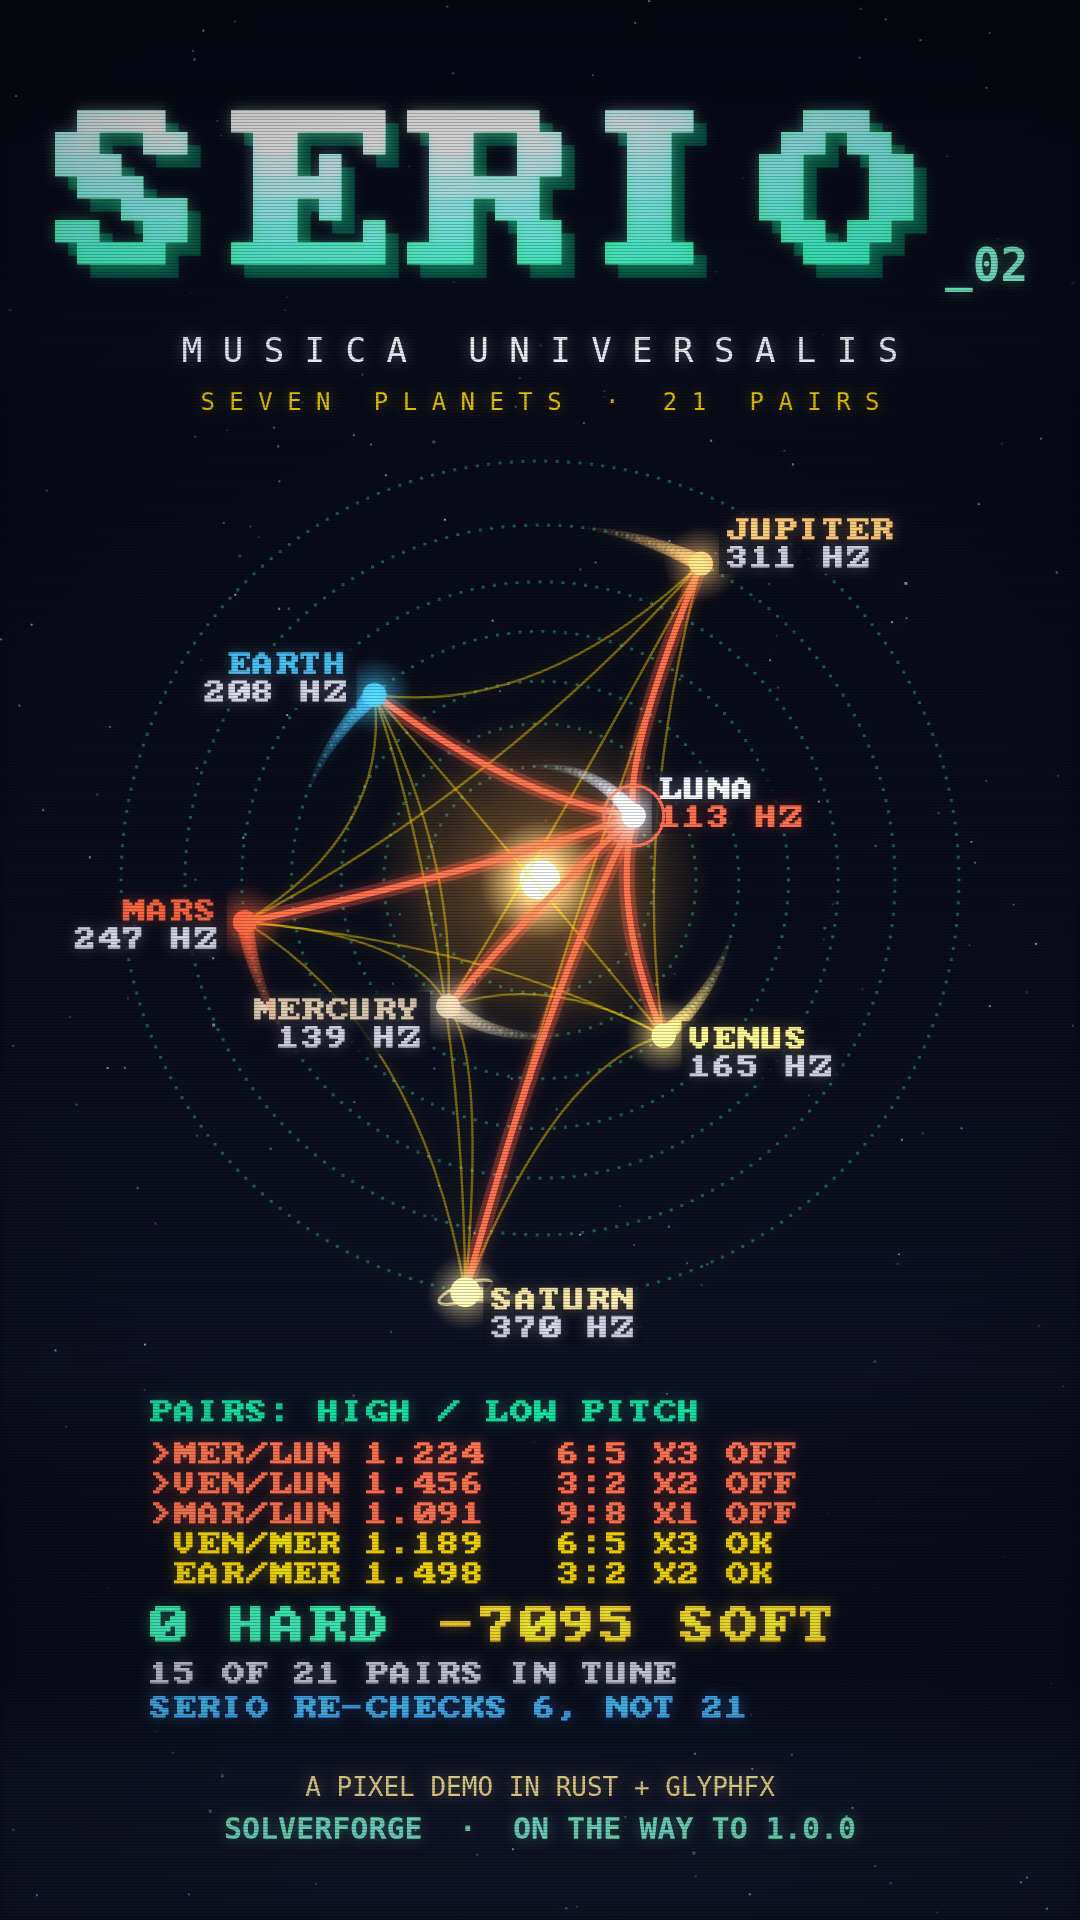
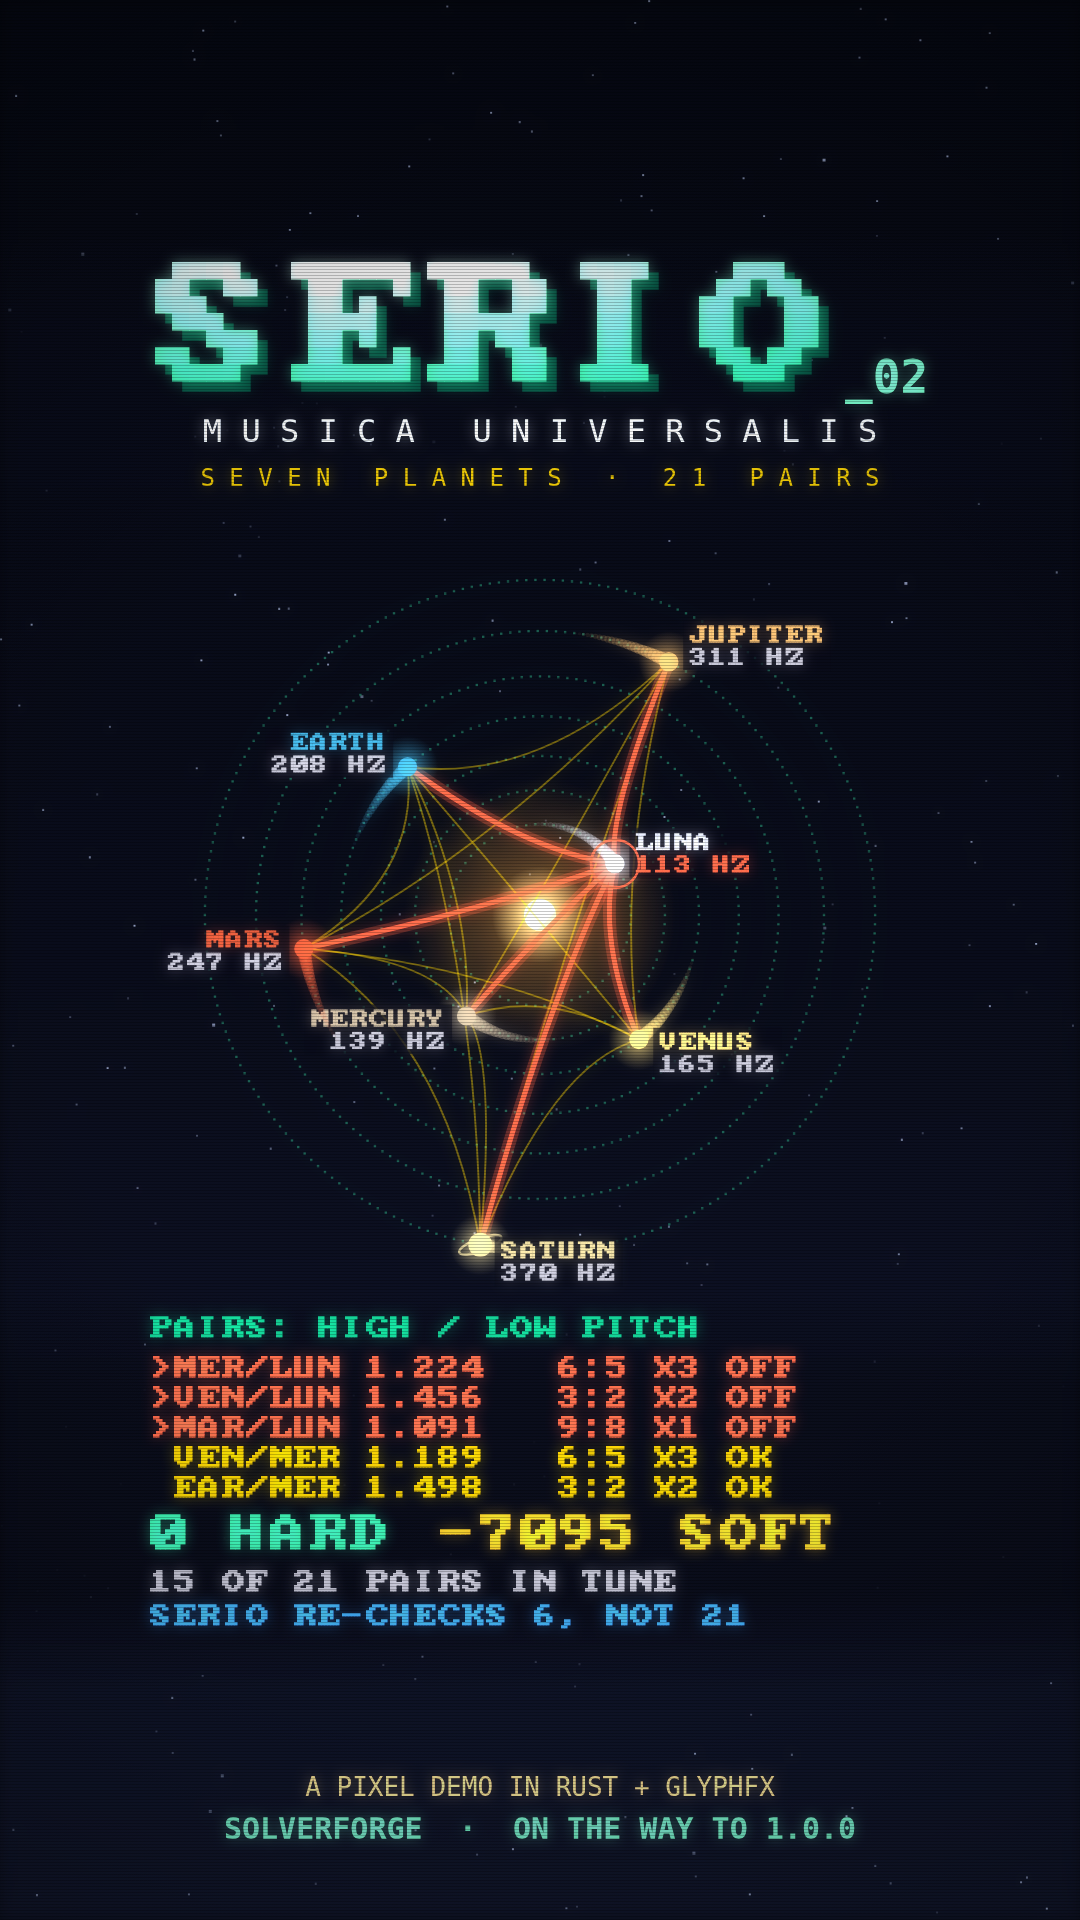
docs(serio_02, splice_04): keep the cover titles inside Instagram's grid crop
The profile grid shows only the 3:4 centre of a 9:16 cover (y 240-1680),
which cut the titles off. The titles move into that band and the scene
scales down to make room.

Changed region(s): [[0.0306, 0.0312, 0.8556, 0.9062], [0.8861, 0.125, 0.9472, 0.1562]]

diff --git a/splice_04/docs/social/cover-9x16.html b/splice_04/docs/social/cover-9x16.html
@@ -71,6 +71,8 @@ function compose(){
   ctx.fillStyle=bg;ctx.fillRect(0,0,W,H);
   stars(160,0,470,23);
   glow(540,860,560,EMR,.08);glow(660,700,300,GOLDC,.07);
+  // The board, scaled into the band Instagram's 3:4 grid crop keeps.
+  ctx.save();ctx.translate(540,895);ctx.scale(.82,.82);ctx.translate(-540,-880);
   // The board.
   ctx.fillStyle=rgba([9,12,14],.85);ctx.fillRect(110,450,860,860);
   ctx.strokeStyle=rgba(EMR,.25);ctx.lineWidth=2;ctx.strokeRect(110,450,860,860);
@@ -99,23 +101,24 @@ function compose(){
   ctx.strokeStyle=rgb(MINT);ctx.lineWidth=3;ctx.beginPath();ctx.arc(R[0],R[1],26,0,7);ctx.stroke();
   ptext(String(best+1),R[0]-ptextWidth(String(best+1),3)/2,R[1]+36,3,rgb(GLASS));
   {const w=ptextWidth('NEW STOP',3);ctx.fillStyle='rgba(6,8,10,0.85)';ctx.fillRect(R[0]-w/2-6,R[1]-82,w+12,36);ptext('NEW STOP',R[0]-w/2,R[1]-78,3,rgb(GLASS));}
-  // Title.
-  plate(70,380,.75);
-  title('SPLICE','_04',118,17);
-  spaced('LIST VARIABLE ROUTE',336,34,'#e6eef7');
-  spaced('TRY EVERY GAP · KEEP THE CHEAPEST',392,22,rgb(GOLDC));
+  ctx.restore();
+  // Title, inside the grid crop.
+  plate(230,330,.75);
+  title('SPLICE','_04',262,15);
+  spaced('LIST VARIABLE ROUTE',410,32,'#e6eef7');
+  spaced('TRY EVERY GAP · KEEP THE CHEAPEST',460,22,rgb(GOLDC));
   // The list itself.
-  plate(1350,420,.9);
-  const n=S.length+1, bw=58, gap=12, x0=Math.round((W-(n*bw+(n-1)*gap))/2), y=1420;
-  ptextC('A ROUTE IS AN ORDERED LIST:',W/2,1352,3,rgb(EMR));
+  plate(1250,420,.9);
+  const n=S.length+1, bw=58, gap=12, x0=Math.round((W-(n*bw+(n-1)*gap))/2), y=1340;
+  ptextC('A ROUTE IS AN ORDERED LIST:',W/2,1274,3,rgb(EMR));
   for(let k=0;k<n;k++){const x=x0+k*(bw+gap);const isR=k===best+1, later=k>best+1;
     ctx.fillStyle=isR?rgba(GLASS,.3):rgba(EMR,.12);ctx.fillRect(x,y,bw,bw);ctx.strokeStyle=isR?rgb(GLASS):later?rgb([255,226,140]):rgba(EMR,.7);ctx.lineWidth=isR?4:2;ctx.strokeRect(x,y,bw,bw);
     const t=String(k);ptext(t,x+bw/2-ptextWidth(t,3)/2,y+bw/2-12,3,isR?rgb(GLASS):later?rgb([255,226,140]):rgb(MINT));}
   const rx=x0+(best+1)*(bw+gap)+bw/2;
   ctx.fillStyle=rgb(GLASS);ctx.beginPath();ctx.moveTo(rx,y-6);ctx.lineTo(rx-12,y-26);ctx.lineTo(rx+12,y-26);ctx.fill();
-  ptextC('THE NEW STOP GOES IN THE CHEAPEST GAP.',W/2,1520,3,rgb(MINT,.9));
-  ptextC('LATER STOPS MOVE ONE PLACE DOWN.',W/2,1556,3,rgb([255,226,140]));
-  ptextC('ONLY THE CHANGED PART IS RE-CHECKED.',W/2,1592,3,rgb(GOLDC,.9));
+  ptextC('THE NEW STOP GOES IN THE CHEAPEST GAP.',W/2,1430,3,rgb(MINT,.9));
+  ptextC('LATER STOPS MOVE ONE PLACE DOWN.',W/2,1466,3,rgb([255,226,140]));
+  ptextC('ONLY THE CHANGED PART IS RE-CHECKED.',W/2,1502,3,rgb(GOLDC,.9));
   footer('A PIXEL DEMO IN RUST + GLYPHFX');
 }
 run(compose);

diff --git a/serio_02/docs/social/cover-9x16.html b/serio_02/docs/social/cover-9x16.html
@@ -73,6 +73,8 @@ function compose(){
   const bg=ctx.createLinearGradient(0,0,0,H);bg.addColorStop(0,'#04060e');bg.addColorStop(.5,'#060812');bg.addColorStop(1,'#0c1020');
   ctx.fillStyle=bg;ctx.fillRect(0,0,W,H);
   stars(260,0,H,11);
+  // The orrery, scaled into the band Instagram's 3:4 grid crop keeps.
+  ctx.save();ctx.translate(540,915);ctx.scale(.8,.8);ctx.translate(-540,-880);
   // Orbits: faint dotted rings.
   P.forEach(p=>{const r=p[3]*SC;const n=Math.round(r*0.55);for(let i=0;i<n;i++){const a=i/n*Math.PI*2;ctx.fillStyle='rgba(52,211,153,0.4)';ctx.fillRect(CX+Math.cos(a)*r-1.5,CY+Math.sin(a)*r-1.5,3,3);}});
   // Sun.
@@ -104,23 +106,24 @@ function compose(){
   });
   // Moved-note callout on Luna.
   const [lx,ly]=pos[0];ctx.strokeStyle=rgba(RED,.9);ctx.lineWidth=3;ctx.beginPath();ctx.arc(lx,ly,30,0,7);ctx.stroke();
-  // Title block.
-  plate(70,380,.75);
-  title('SERIO','_02',110,22);
-  spaced('MUSICA UNIVERSALIS',336,34,'#e6eef7');
-  spaced('SEVEN PLANETS · 21 PAIRS',392,24,rgb(GOLD,.85));
+  ctx.restore();
+  // Title block, inside the grid crop.
+  plate(230,330,.75);
+  title('SERIO','_02',262,17);
+  spaced('MUSICA UNIVERSALIS',418,32,'#e6eef7');
+  spaced('SEVEN PLANETS · 21 PAIRS',468,24,rgb(GOLD,.85));
   // The panel, as in the demo.
-  plate(1370,400,.9);
+  plate(1290,400,.9);
   const x0=150, px=3, lh=30;
-  ptext('PAIRS: HIGH / LOW PITCH',x0,1400,px,rgb(E500));
+  ptext('PAIRS: HIGH / LOW PITCH',x0,1316,px,rgb(E500));
   const rows=[
     ['>MER/LUN 1.224   6:5 X3 OFF',1],['>VEN/LUN 1.456   3:2 X2 OFF',1],['>MAR/LUN 1.091   9:8 X1 OFF',1],
     [' VEN/MER 1.189   6:5 X3 OK',0],[' EAR/MER 1.498   3:2 X2 OK',0],
   ];
-  rows.forEach(([t,off],i)=>ptext(t,x0,1442+i*lh,px,off?rgb(RED):rgb(GOLD,.85)));
-  ptext('0 HARD',x0,1606,5,rgb(E400));ptext('-7095 SOFT',x0+290,1606,5,rgb(AMBER));
-  ptext('15 OF 21 PAIRS IN TUNE',x0,1662,px,rgb(CHROME,.8));
-  ptext('SERIO RE-CHECKS 6, NOT 21',x0,1696,px,rgb([60,160,255]));
+  rows.forEach(([t,off],i)=>ptext(t,x0,1356+i*lh,px,off?rgb(RED):rgb(GOLD,.85)));
+  ptext('0 HARD',x0,1514,5,rgb(E400));ptext('-7095 SOFT',x0+290,1514,5,rgb(AMBER));
+  ptext('15 OF 21 PAIRS IN TUNE',x0,1570,px,rgb(CHROME,.8));
+  ptext('SERIO RE-CHECKS 6, NOT 21',x0,1604,px,rgb([60,160,255]));
   footer('A PIXEL DEMO IN RUST + GLYPHFX');
 }
 run(compose);
